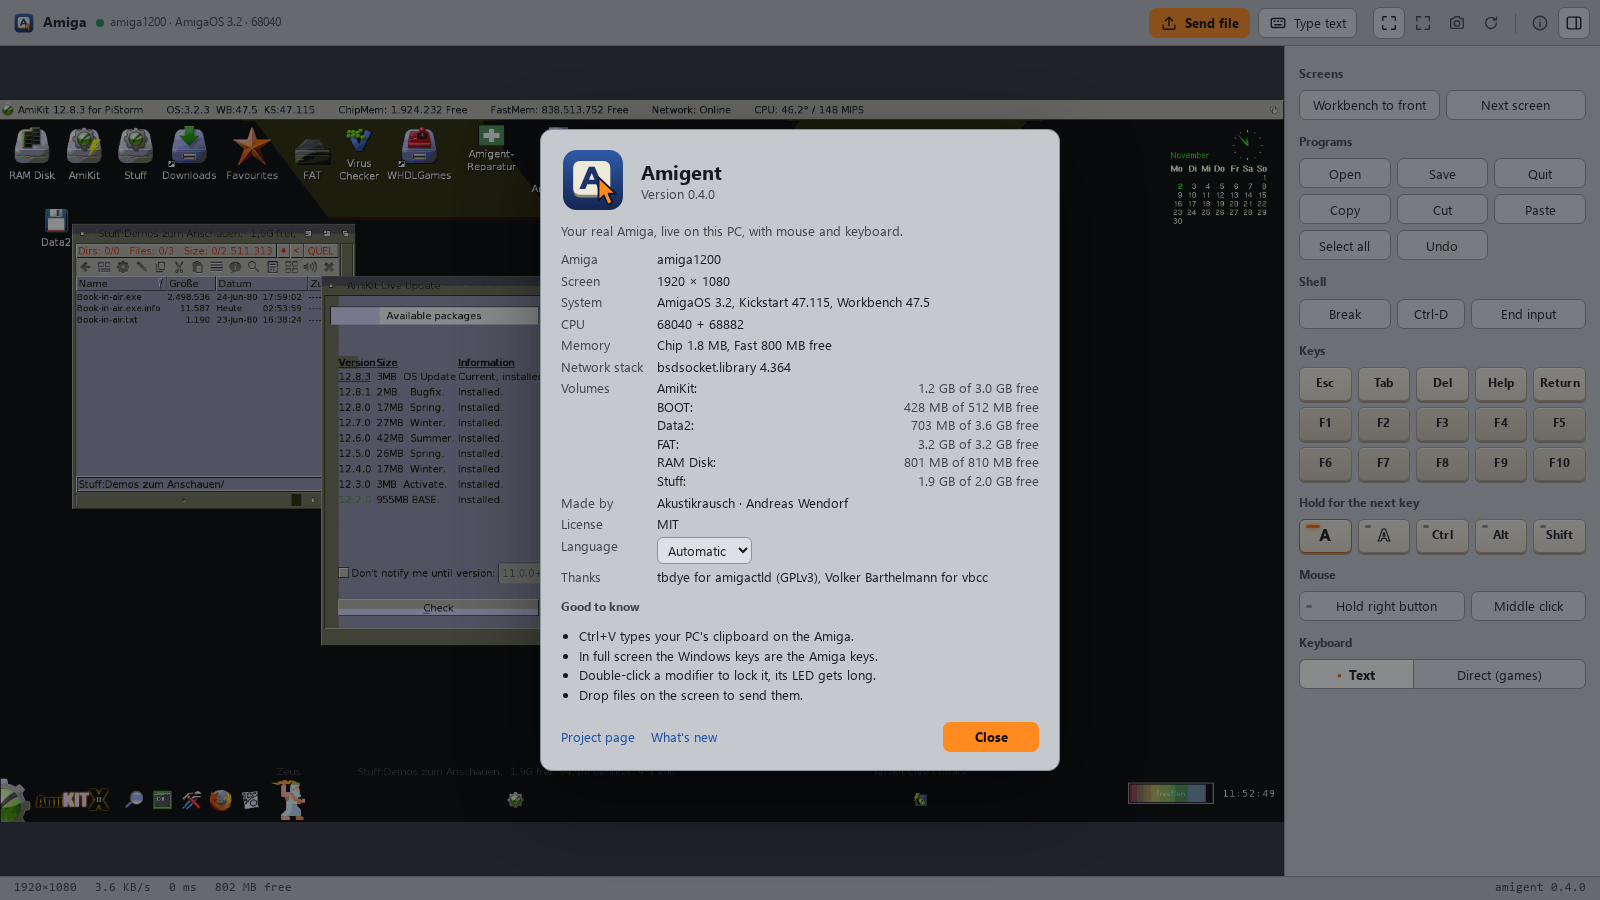
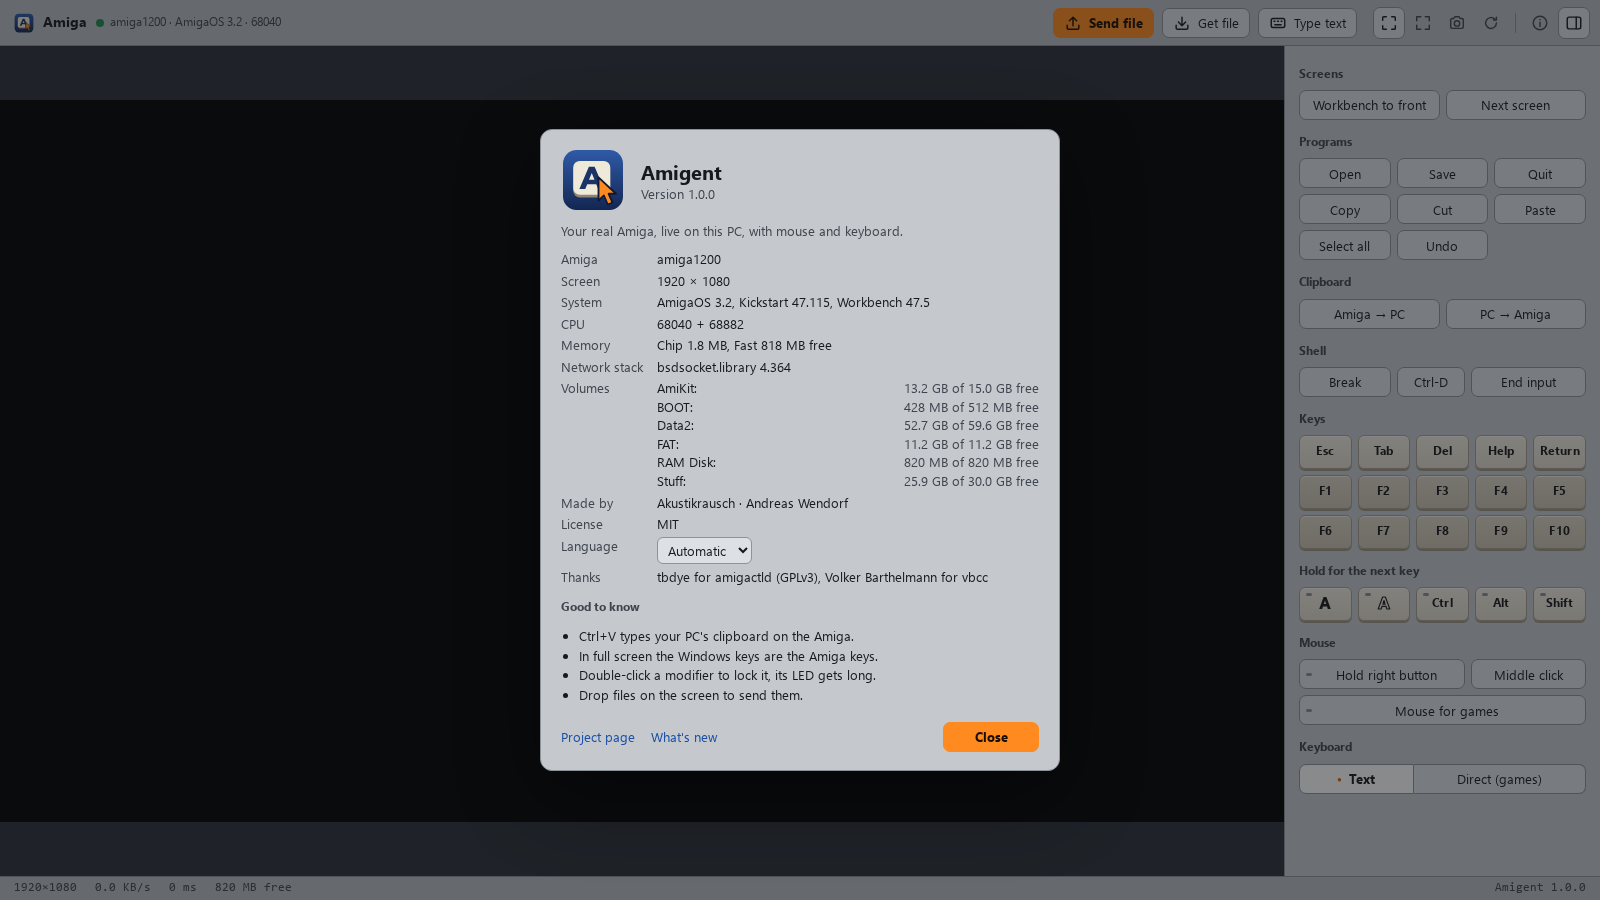
Docs: serve mode, fresh screenshots of the send dialog and About

diff --git a/docs/GUIDE.md b/docs/GUIDE.md
@@ -18,7 +18,10 @@ on the Amiga.
 ## Installation by hand
 
 Copy [`amiga/bin/amigentd`](../amiga/bin/amigentd) to the Amiga, or unpack
-`amigent-1.0.0.lha` from the releases, and start it: double-click the icon, or
+`amigent-1.0.0.lha` from the releases. If the Amiga has a browser or wget but
+no other way in, `amigent-setup --serve` offers both builds on the network for
+30 minutes and prints the address to open. Under WSL it uses Windows Python
+for this, because the network does not reach servers inside WSL. Then start it: double-click the icon, or
 `amigentd SETUP` in a Shell (`amigentd.000 SETUP` on a 68000). Then on the PC:
 
 ```bash
@@ -101,6 +104,8 @@ interrupted copy.
   to disk first.
 - **System information.** The *i* button shows Kickstart and Workbench versions,
   CPU, FPU, memory, the network stack and the free space of each volume.
+
+![Choosing the target folder on the Amiga](screenshots/send.png)
 
 ![System information in the About window](screenshots/about.png)
 

diff --git a/docs/FAQ.md b/docs/FAQ.md
@@ -4,6 +4,12 @@
 Check that `amigentd SETUP` is running, then give it the address by hand:
 `amigent-setup 192.168.1.50`. The search only covers your own /24.
 
+**How do I get amigentd onto the Amiga without a USB stick?**
+Run `amigent-setup --serve` on the PC. It prints an address; open it in the
+Amiga's browser and save `amigentd` to `RAM:`, or fetch it with wget as shown.
+Files saved from a browser may lack the execute bit: `Protect RAM:amigentd +e`.
+The first time, Windows may ask whether Python may accept connections.
+
 **What runs on the Amiga?**
 Only `amigentd`, started from `S:User-Startup`. It handles the screen, commands
 and files on one port. Older installs also had amigactld; it keeps working.

diff --git a/README.md b/README.md
@@ -27,8 +27,9 @@ any moment.
 ## Installation
 
 **1.** Copy [`amigentd`](amiga/bin/amigentd) to your Amiga, for example to
-`RAM:`. A browser, USB stick or SD card all work. Or take the archive with icon
-from the [releases](https://github.com/akustikrausch/amigent/releases).
+`RAM:`. A browser, USB stick or SD card all work, or the PC offers it on the
+network (see the [FAQ](docs/FAQ.md)). Or take the archive with icon from the
+[releases](https://github.com/akustikrausch/amigent/releases).
 
 **2.** Start it in a Shell, or double-click its icon:
 
